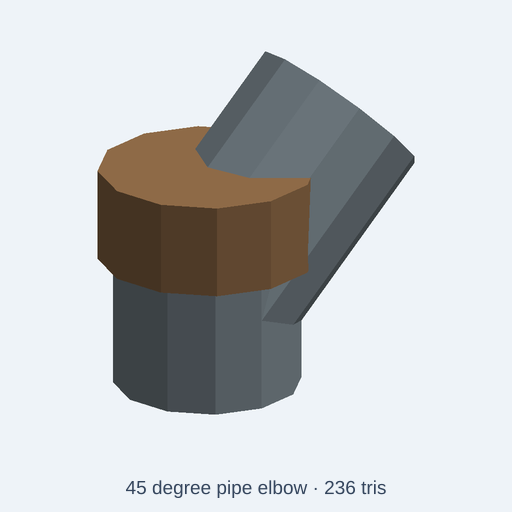
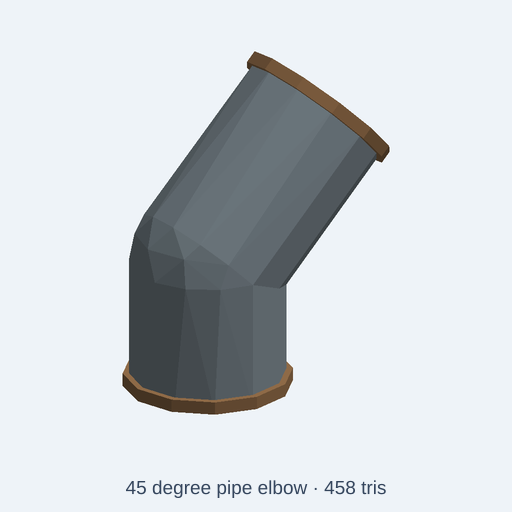
fix(catalog): make illustrative 45-degree elbow a connected open tube

Changed region(s): [[0.1875, 0.0938, 0.8125, 0.8125], [0.625, 0.9375, 0.6875, 0.9688], [0.4375, 0.1562, 0.4688, 0.2188]]

diff --git a/catalog/kits/standard-components/pipe-elbow-45.kcad.ts b/catalog/kits/standard-components/pipe-elbow-45.kcad.ts
@@ -1,20 +1,22 @@
-// Distinctive geometry: Angled 45 degree pipe connector with open ends and a thicker low-poly center bend
+// SPDX-License-Identifier: CC0-1.0
+// Illustrative low-poly 45-degree elbow with a continuous, open bore.
+// Not pressure-rated, tolerance-controlled or manufacturer-certified CAD.
 meta({
   name: 'pipe-elbow-45',
   license: 'CC0-1.0',
   title: '45 degree pipe elbow',
-  description: 'Angled 45 degree pipe connector with open ends and a thicker low-poly center bend Knobs: model size, steel, bronze.',
+  description: 'Illustrative 45-degree elbow with two open ports and one connected Ø16 mm passage at standard size. End collars are separate visual bodies, not specified pressure fittings. Knobs: model size and finish colors only.',
   tags: ['pipe elbow', '45 degree elbow', 'plumbing fitting', 'tube'],
   kit: 'standard-components',
   category: 'attachment',
   origin: 'base',
   compat: ['mechanical', 'industrial', 'workshop', 'assembly'],
-  triangleBudget: 360,
+  triangleBudget: 560,
 });
 
 const size = param('size', 'standard', { choices: ['compact', 'standard', 'large'], label: 'Model size' });
-const steel = param('steel', '#85929a', { label: 'Steel' });
-const bronze = param('bronze', '#98714c', { label: 'Bronze' });
+const steel = param('steel', '#85929a', { label: 'Body finish color (visual only)' });
+const bronze = param('bronze', '#98714c', { label: 'Collar finish color (visual only)' });
 presets({
   dark: { steel: '#3e484e', bronze: '#684d37' },
   brass: { steel: '#646f75', bronze: '#b0804d' },
@@ -23,8 +25,24 @@ presets({
 
 const s = size.value === 'compact' ? 0.75 : size.value === 'large' ? 1.25 : 1;
 const a = assembly('pipe-elbow-45');
-const r=12*s;
-a.part('base',cylinder(20*s,r,12).subtract(cylinder(22*s,8*s,12).translate(0,0,-s)).color(steel));
-a.part('angled',cylinder(29*s,r,12).subtract(cylinder(31*s,8*s,12).translate(0,0,-s)).rotateY(45).translate(0,0,12*s).color(steel));
-a.part('bend',cylinder(12*s,r+2*s,12).translate(0,0,17*s).color(bronze));
+const outerRadius = 12 * s;
+const boreRadius = 8 * s;
+const lowerLength = 20 * s;
+const upperLength = 29 * s;
+// Both outside legs and the rounded corner must form one shell. Cutting one
+// connected pair of centerline passages after the union prevents a solid cap.
+const body = cylinder(lowerLength, outerRadius, 16)
+  .union(cylinder(upperLength, outerRadius, 16).rotateY(45).translate(0, 0, lowerLength))
+  .union(sphere(outerRadius).translate(0, 0, lowerLength));
+const inlet = cylinder(lowerLength + 2 * s, boreRadius, 16).translate(0, 0, -s);
+const outlet = cylinder(upperLength + 2 * s, boreRadius, 16)
+  .translate(0, 0, -s).rotateY(45).translate(0, 0, lowerLength);
+a.part('connected-open-elbow', body.subtract(inlet.union(outlet)).color(steel));
+// These two annuli remain open and are decorative, not specified hardware.
+const collar = cylinder(2 * s, outerRadius + s, 16)
+  .subtract(cylinder(4 * s, boreRadius, 16).translate(0, 0, -s));
+a.part('lower-port-collar', collar.color(bronze));
+a.part('angled-port-collar', collar.rotateY(45)
+  .translate(upperLength * Math.SQRT1_2 - s * Math.SQRT1_2,
+    0, lowerLength + upperLength * Math.SQRT1_2 - s * Math.SQRT1_2).color(bronze));
 return a.model();

diff --git a/tests/integration/catalog/pipeElbow45Fidelity.test.ts b/tests/integration/catalog/pipeElbow45Fidelity.test.ts
@@ -1,0 +1,48 @@
+// SPDX-License-Identifier: MIT
+// A rendered PNG and a triangle budget do not prove that a pipe elbow is hollow.
+import { beforeAll, describe, expect, it } from 'vitest';
+import { resolve } from 'node:path';
+import { initOcct } from '../../../src/kernel/backends/occt/occtBackend';
+import { buildCatalogAssetWithGlb } from '../../../src/agent/catalog/buildCatalog';
+import { glbTriangles } from '../../../scripts/lib/glbSoftwareRender';
+
+type Vec3 = [number, number, number];
+const minus = (a: Vec3, b: Vec3): Vec3 => [a[0]-b[0], a[1]-b[1], a[2]-b[2]];
+const dot = (a: Vec3, b: Vec3) => a[0]*b[0]+a[1]*b[1]+a[2]*b[2];
+const cross = (a: Vec3, b: Vec3): Vec3 =>
+  [a[1]*b[2]-a[2]*b[1], a[2]*b[0]-a[0]*b[2], a[0]*b[1]-a[1]*b[0]];
+function rayIntersections(tris: { v: Vec3[] }[], from: Vec3, to: Vec3): number {
+  const ray = minus(to, from);
+  const hits: number[] = [];
+  for (const {v: [a,b,c]} of tris) {
+    if (!a || !b || !c) continue;
+    const e1=minus(b,a),e2=minus(c,a),p=cross(ray,e2),det=dot(e1,p);
+    if (Math.abs(det) < 1e-12) continue;
+    const inv=1/det,tvec=minus(from,a),u=dot(tvec,p)*inv;
+    if (u < -1e-7 || u > 1+1e-7) continue;
+    const q=cross(tvec,e1),v=dot(ray,q)*inv;
+    if (v < -1e-7 || u+v > 1+1e-7) continue;
+    const t=dot(e2,q)*inv;
+    if (t > 1e-5 && t < 1-1e-5) hits.push(t);
+  }
+  return hits.sort((a,b)=>a-b).filter((t,i,a)=>i===0||Math.abs(t-a[i-1]!)>1e-4).length;
+}
+
+describe('CC0 45-degree elbow geometry (illustrative, not pressure-rated)', () => {
+  beforeAll(async () => { await initOcct(); });
+  it('has a continuous hollow centerline, actual annular walls and open terminal ports', async () => {
+    const {asset,glb}=await buildCatalogAssetWithGlb(resolve(import.meta.dirname,'../../..'),
+      'catalog/kits/standard-components/pipe-elbow-45.kcad.ts');
+    expect(asset.stats.triangles).toBeLessThanOrEqual(asset.triangleBudget);
+    expect(asset.description).toMatch(/not specified pressure fittings/i);
+    // Export is in meters with Y up. The original solid center cap fails both
+    // the outlet centerline and the outlet wall checks.
+    const triangles=await glbTriangles(glb);
+    expect(rayIntersections(triangles,[0,-0.001,0],[0,0.019,0])).toBe(0);
+    expect(rayIntersections(triangles,[0,0.020,0],[0.0205,0.0405,0])).toBe(0);
+    expect(rayIntersections(triangles,[0,0.004,0],[0.016,0.004,0])).toBeGreaterThan(0);
+    expect(rayIntersections(triangles,[0.014,0.034,0],[0.028,0.034,0])).toBeGreaterThan(0);
+    expect(asset.stats.sizeM[0]).toBeGreaterThan(0.04);
+    expect(asset.stats.sizeM[1]).toBeGreaterThan(0.045);
+  }, 90000);
+});
